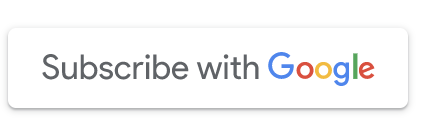
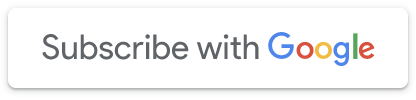
cleanup after talking with design

Changed region(s): [[0.0938, 0.3, 0.9062, 0.72], [0.0, 0.81, 1.0, 0.93]]

diff --git a/static/css/decks/dsp.css b/static/css/decks/dsp.css
@@ -30,6 +30,7 @@ section.dsp {
 .paywall {
   --section-width: 900px;
   text-align: center;
+  padding-bottom: 30px;
 }
 
 .paywall .page-title {
@@ -100,10 +101,54 @@ section.dsp {
   align-items: center;
 }
 
-.subscription-offers [class*=promo] .dsp-offer .h1 {
-  min-height: 2.2em;
-  display: flex;
-  align-items: center;
+/* This won't hold up for long */
+@media (min-width: 660px) {
+  .subscription-offers [class*=promo] .dsp-offer .h1 {
+    min-height: 2.2em;
+    display: flex;
+    align-items: center;
+  }
+}
+
+/* Hero at the top of the sub offer page */
+
+.dsp-hero {
+  --tc: white;
+  --pa: center;
+  --padding: 60px 30px;
+  min-height: 320px;
+  position: relative;
+  overflow: visible;
+  text-align: center;
+}
+
+.dsp-hero img {
+  position: absolute;
+  top: 0;
+  left: 0;
+  width: 100%;
+  height: 380px;
+  object-fit: cover;
+  object-position: 50% 70%;
+  filter: brightness(0.7);
+}
+
+.dsp-hero .h1 {
+  font-size: 38px;
+}
+
+.dsp-hero .h2 {
+  font-size: 20px;
+}
+
+@media (min-width: 990px) {
+  .dsp-hero .h1 {
+    font-size: 52px;
+  }
+
+  .dsp-hero .h2 {
+    font-size: 24px;
+  }
 }
 
 /**

diff --git a/content/saratoga/decks/paywall.html b/content/saratoga/decks/paywall.html
@@ -30,13 +30,13 @@ body {
   </div>
 
   <div>
-    <p class="expander paywall-expander open" onclick="this.classList.toggle('open')">SHOW DETAILS AND OPTIONS</p>
+    <p class="expander paywall-expander" onclick="this.classList.toggle('open')">SHOW DETAILS AND OPTIONS</p>
 
     <div class="paywall-details grid">
       {{< dsp/offer-details >}}
 
       <div class="card">
-        {{< dsp/offer label="MONTHLY OR YEARLY" button="/img/swg-button.png" button-width="218" >}}
+        {{< dsp/offer label="MONTHLY OR YEARLY" button="/img/swg-button.png" button-width="208" >}}
           <h2 class="h1">Subscribe with Google</h2>
           <p>Choose from the same monthly or yearly Unlimited Digital Access deals, but use your Google account to manage your subscription and billing.</p>
           <p class="terms">By subscribing, you are agreeing to the Miami Herald's <a href="#">Terms of Service</a> and <a href="#">Privacy Policy</a>.</p>

diff --git a/static/css/molecules/offer.css b/static/css/molecules/offer.css
@@ -9,6 +9,7 @@
   --ts: 0.875rem;
   --tf: var(--sans);
   --ps: 5px;
+  --pa: center;
   --padding: 0px;
   --lc: var(--blue);
   --lhc: var(--blue);
@@ -18,16 +19,10 @@
   padding: 30px;
   justify-items: center;
   text-align: center;
-  align-self: flex-start;
 }
 
 .dsp-offer > * {
   margin: 0;
-}
-
-.dsp-offer .package {
-  --hw: bold;
-  align-items: center;
 }
 
 .dsp-offer li {
@@ -55,8 +50,9 @@
 
 @media (min-width: 660px) {
   .dsp-offer.horizontal {
+    --pa: start;
     display: grid;
-    grid-template-columns: auto;
+    grid-template-columns: 1fr auto;
     padding: 30px;
     justify-items: start;
     text-align: left;
@@ -67,14 +63,9 @@
     grid-column: 1;
   }
 
-  .dsp-offer.horizontal .package {
-    align-items: start;
-    text-align: left;
-  }
-
   .dsp-offer.horizontal > .button {
     grid-column: 2;
-    grid-row: 1/span 2;
+    grid-row: 1/-1;
     align-self: center;
     justify-self: end;
   }

diff --git a/content/saratoga/decks/subscription-offers.html b/content/saratoga/decks/subscription-offers.html
@@ -8,6 +8,14 @@ build: dsp
 
 {{< dsp/masthead >}}
 
+<div class="dsp-hero">
+  <img src="/img/skyline.jpg">
+  <div class="package">
+    <h1 class="h1">What does local mean to you?</h1>
+    <p class="h2 sans">Your subscription helps local journalism thrive.</p>
+  </div>
+</div>
+
 <section class="dsp subscription-offers">
   <!-- Standard offers -->
   <div class="grid">
@@ -45,7 +53,7 @@ build: dsp
       </ul>
     {{</ dsp/offer >}}
 
-    {{< dsp/offer type="horizontal" label="MONTHLY OR YEARLY" button="/img/swg-button.png" button-width="218" >}}
+    {{< dsp/offer type="horizontal" label="MONTHLY OR YEARLY" button="/img/swg-button.png" button-width="208" >}}
       <h3 class="h1">Subscribe with Google</h3>
       <p class="gray">Choose from the same monthly or yearly Unlimited Digital Access deals, but let Google manage your subscription and billing.</p>
     {{</ dsp/offer >}}

diff --git a/layouts/shortcodes/dsp/offer.html b/layouts/shortcodes/dsp/offer.html
@@ -18,7 +18,7 @@
 
     {{ with .Get "button" -}}
     {{ if (fileExists (printf "/static/%s" .)) -}}
-    <a class="button" href="#">
+    <a class="button flush" href="#">
       <img src="{{.}}" width="{{ $.Get "button-width" }}">
     </a>
     {{ else -}}
@@ -50,7 +50,7 @@
 
     {{ with .Get "button" -}}
     {{ if (fileExists (printf "/static/%s" .)) -}}
-    <a class="button" href="#">
+    <a class="button flush" href="#">
       <img src="{{.}}" width="{{ $.Get "button-width" }}">
     </a>
     {{ else -}}

diff --git a/static/css/atoms/package.css b/static/css/atoms/package.css
@@ -8,7 +8,7 @@
   display: flex;
   flex-direction: column;
   flex: 1 1 auto;
-  align-items: flex-start;
+  align-items: var(--pa, flex-start);
   color: var(--tc);
 	--hf: var(--serif);
 	--hw: 400;

diff --git a/static/css/atoms/button.css b/static/css/atoms/button.css
@@ -77,3 +77,7 @@ button:hover,
 .button.pill {
   border-radius: 1.5em;
 }
+
+.button.flush {
+  padding: 0;
+}

diff --git a/content/saratoga/offer.md b/content/saratoga/offer.md
@@ -5,57 +5,22 @@ menu: "molecule"
 build: dsp
 ---
 
-The primary offer molecule is used with variation in the <a href="/saratoga/paywall/">paywall</a> and <a href="/saratoga/decks/subscription-offers">subscription offers</a> pages. The molecule is a combo of a custom CSS grid and an altered [package](../package/) to allow for equal spacing of groups.
+The DSP offer card provides double padding around the edges, has a customizable grid layout for adjusting spacing as necessary, and tweaks child package molecules just a tad. The tweaks allow for controlling the spacing inside of grouped content, such as offers and terms. 
 
-The primary and secondary variants, used by appending either the `primary` or `secondary` class will put in larger padding and open up the option for a background image using the `--image` CSS property. All variants use utility classes directly the children to highlight the flexibility of the molecule. 
+*Note: These cards represent some of our most fluid to date, and variations in the system occur at the deck level. Check the `decks/dsp.css` file for these adjustments.*
 
-#### Paywall Example
+#### Standard version
 
-<div class="example">{{< dsp/offer >}}</div>
+This version can be placed on it's own like the [paywall deck](../decks/paywall), or in a grid like the [subscription offer deck](../decks/subscription-offers/). The same version, with slight adjustments is also the base element for the SWG offer and the all-offer cards on the paywall deck.
 
-#### Paywall HTML
-{{< highlight html >}}
-{{< dsp/offer >}}
-{{< /highlight >}}
-
-#### Primary Example
-
-<div class="example">{{< dsp/offer type="primary" >}}</div>
-
-#### Primary HTML
-
-{{< highlight html >}}
-{{< dsp/offer type="primary" >}}
-{{< /highlight >}}
-
-#### Secondary Example
-
-<div class="example grid" style="--columns: repeat(auto-fit, 400px);">
-  {{< dsp/offer type="secondary" >}}
-  {{< dsp/offer type="secondary-b" >}}
+<div class="example">
+  <div class="card paywall-offer">{{< dsp/offer color="promo" label="MONTHLY" button="START TODAY" />}}</div>
 </div>
 
-#### Secondary HTML
+#### Horizontal version
 
-{{< highlight html >}}
-{{< dsp/offer type="secondary" >}}
-{{< /highlight >}}
+The horizontal version is used as alternative offers on the subscription offer deck. This version uses media breakpoints, and therefore should not be placed in a grid that has more than one column spanning the entire width of the page.
 
-#### Tertiary offers
-
-<div class="example grid" style="grid-template-columns: repeat(auto-fit, 400px);">
-  {{< dsp/offer type="tertiary-a" >}}
-  {{< dsp/offer type="tertiary-b" >}}
+<div class="example">
+  {{< dsp/offer type="horizontal" label="YEARLY" button="START TODAY" />}}
 </div>
-
-#### Tertiary variant A
-
-{{< highlight html >}}
-{{< dsp/offer type="tertiary-a" >}}
-{{< /highlight >}}
-
-#### Tertiary variant B
-
-{{< highlight html >}}
-{{< dsp/offer type="tertiary-b" >}}
-{{< /highlight >}}
